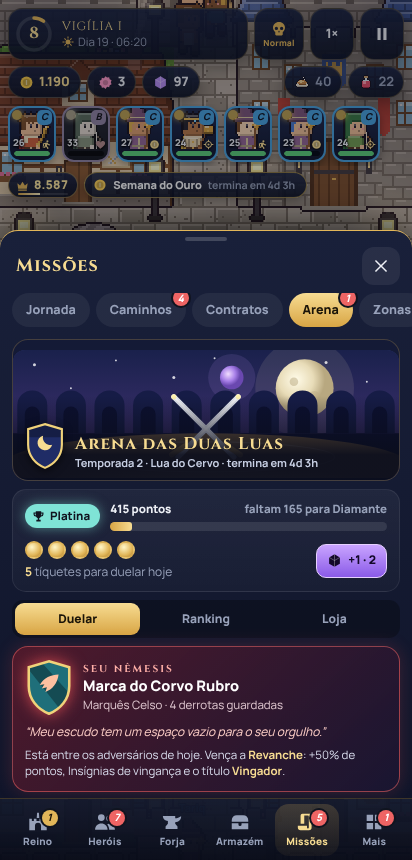
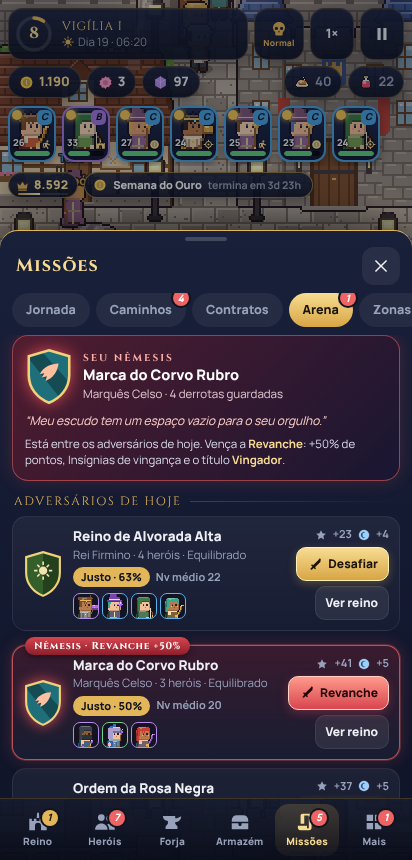
feat: batch 3-B wrap-up - ciclo3-b screenshots (412x860 and 360x640), friendly-duel result guard, notes and sim numbers in lotes/3b.md
Claude-Session: https://claude.ai/code/session_01RExi7NTrsFec5vZJ8UCPb2

diff --git a/jogos/aurora-cronicas-da-fenda/aurora.html b/jogos/aurora-cronicas-da-fenda/aurora.html
@@ -11146,7 +11146,7 @@ button.ttl{padding:4px 0 0;text-align:left;font-size:12px}
   /* resultado do duelo: vingança, provocação do líder e o novo Nêmesis; duelo amistoso troca o resultado inteiro */
   let lastRes = null, friendly = null;
   G.on('arena', (d) => {
-    if (d.t === 'duel') { lastRes = d.res; return; }
+    if (d.t === 'duel') { lastRes = d.res; friendly = null; return; }     // um duelo valendo começou: nenhum amistoso abandonado vaza para o resultado dele
     if (d.t !== 'result') return;
     try {
       const box = $('#ar-res .ar-res'); if (!box) return;

diff --git a/jogos/aurora-cronicas-da-fenda/lotes/3b.md b/jogos/aurora-cronicas-da-fenda/lotes/3b.md
@@ -3,10 +3,11 @@
 Branch auxiliar: `ccr-5878aa8d-eltmr3-lote-3b`. Base: v24.0 (`4f91021`). Não mexi em `G.VERSION`/`G.BUILD` nem em `PROGRESSO.md`.
 
 ## Itens
-- [x] 3B.1 Nêmesis e revanche (código + testes no navegador; faltam capturas finais 360×640)
-- [x] 3B.2 Visitantes rivais (código + testes no navegador; faltam capturas finais 360×640)
-- [x] 3B.3 Laços entre heróis (código + testes; falta captura do balão de laço sem a Maré por cima)
-- [ ] Capturas finais em `capturas/ciclo3-b/`, simulador com 2 sementes, save da base v22 sem `pageerror`
+- [x] 3B.1 Nêmesis e revanche (Arena: cartão do Nêmesis, oferta "Revanche" +50%, faixa no ranking, provocação do líder; retorno com notícias dos rivais)
+- [x] 3B.2 Visitantes rivais (passeiam pela praça e pela taverna, falas com heróis, cartão ao toque, duelo amistoso 1×/dia)
+- [x] 3B.3 Laços entre heróis (Conhecidos → Companheiros → Irmãos de Armas / Rivais Amistosos; bônus por perto; falas; seção "Laços" na aba Feitos)
+- [x] Capturas em `capturas/ciclo3-b/` (412×860 e 360×640), jogo novo e save da base v22 sem `pageerror`
+- [x] Simulador 180 min, sementes 1 e 2, sem erros (ver abaixo)
 
 ## Blocos novos (inseridos imediatamente antes de `/* ===== 90-main.js ===== */`)
 - `/* ===== 3D-rivais.js ===== */` — simulação (sem DOM).
@@ -36,3 +37,12 @@ Wrappers de UI (69): `UI.SHEETS.missoes.render` (aba Arena), `UI.ACT.arriv`, `UI
 - Nêmesis: rival com mais derrotas na temporada, depois rancor, total e recência; precisa de 2 derrotas de rancor. Aparece nos 3 adversários com 55% de chance; calibrado para ~50% de vitória. Revanche: +50% de pontos, vitória zera o rancor, +10 Insígnias (+2 por derrota guardada, até +10) e título Vingador à equipe.
 - Laços: níveis em 8/50/160 pontos; limites diários por par (caçada 9, duelo 6, resgate 10, chefe 9); só depois de 4 min de jogo. Bônus por perto (≤5,5 casas, histerese 8,5): Companheiros +1% atk/def; Irmãos +2% atk/def +3% ânimo; Rivais Amistosos (corajoso×medroso, ambicioso×preguiçoso, impulsivo×focado) +2% / +3% atk; teto 3% (ânimo 4%) por herói. Irmãos de Armas dá o título `irmao`.
 - Visitante: a cada 6–10 min de jogo, fica 2–3 min; duelo amistoso 1×/dia (relógio da Arena), sem tíquete, sem pontos de liga; prêmio: moedas + 2 Insígnias (1 se perder).
+
+## Simulador (180 min, `--quiet`)
+- Semente 1: Arena 135 duelos (57,8%), Nêmesis formados 12, revanches 21 (11 vencidas), laços 41/55 pares (Conhecidos 17, Companheiros/Rivais 21, Irmãos 3), primeiro de cada nível em 6/27/100 min. Sem erros.
+- Semente 2: Arena 145 duelos (60,0%), Nêmesis 13, revanches 19 (14 vencidas), laços 32/55 pares (13/10/9), níveis em 12/28/109 min. Sem erros.
+- Base (sem o lote, mesmas sementes): momentos 251–267, Arena 130–140 duelos; o ritmo não piorou (a variação de Poder do Reino entre execuções é ruído do robô, dependente da sequência aleatória).
+- Visitantes não existem no simulador (modo sem tela); foram testados no navegador (`G.visitorSpawn`, toque, cartão, duelo amistoso, Maré expulsa o visitante, salvar/recarregar durante a visita).
+
+## Capturas (`capturas/ciclo3-b/`)
+01 Arena com cartão do Nêmesis e oferta de revanche · 02 ranking com a faixa Nêmesis · 03 equipe da revanche (360×640) · 04 resultado com vingança e provocação · 05 visitante na praça · 06 cartão do visitante (360×640) · 07 resultado do duelo amistoso · 08 retorno com notícias dos rivais · 09 laços na aba Feitos · 10 fala de laço no mapa.
